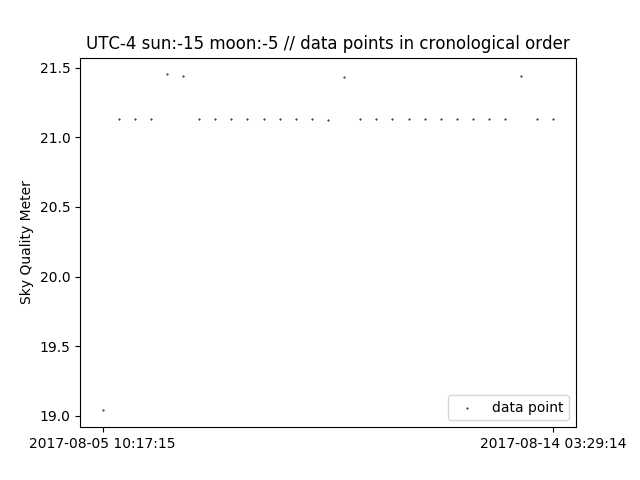
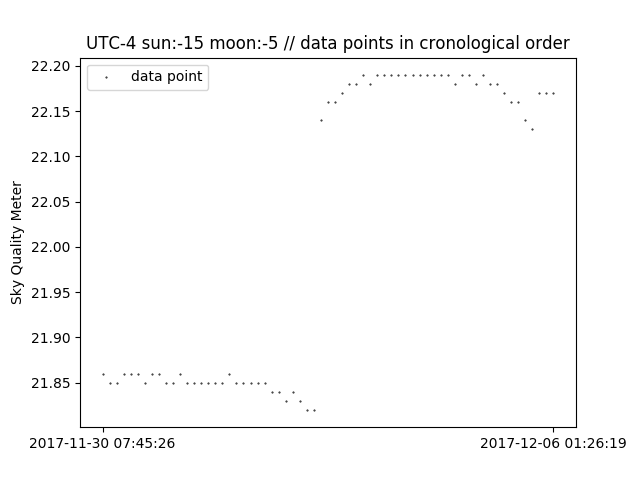
encuentro data tercer offset

diff --git a/plot1.py b/plot1.py
@@ -17,7 +17,7 @@ colors = ['r', 'y', 'b', 'greenyellow', 'c', 'g', 'black']
 #binSize = 10080 # data points, one per minute, 10.080 a week
 [db_cursor, database] = WS.db_connect()
 search = "SELECT `UTC`, `sqm` FROM `weather` WHERE \
-`UTC` >= '2017-08-05 10:17:00' AND `UTC` <= '2017-08-14 03:30:00' AND \
+`UTC` >= '2017-11-30 03:15:00' AND `UTC` <= '2017-12-06 03:30:00' AND \
 `SunElevation` < -15 AND `MoonElevation` < -5 AND \
 `weatherstatus`= 'Go Science!' ORDER BY `UTC` ASC LIMIT 1000000"
 
